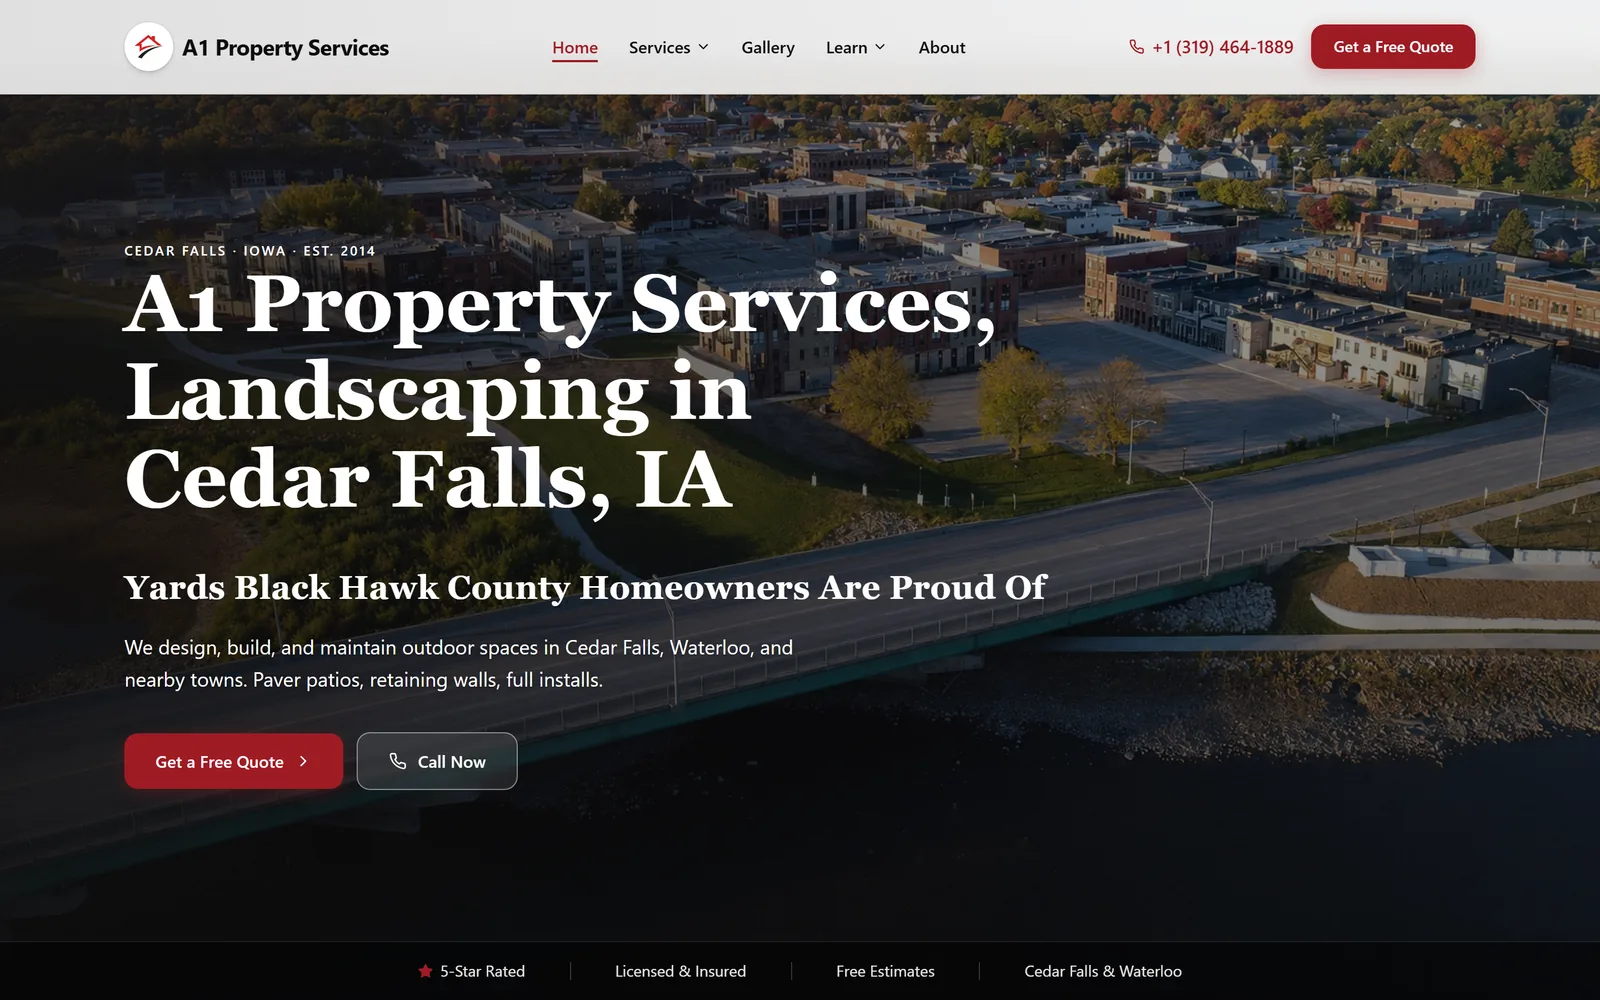
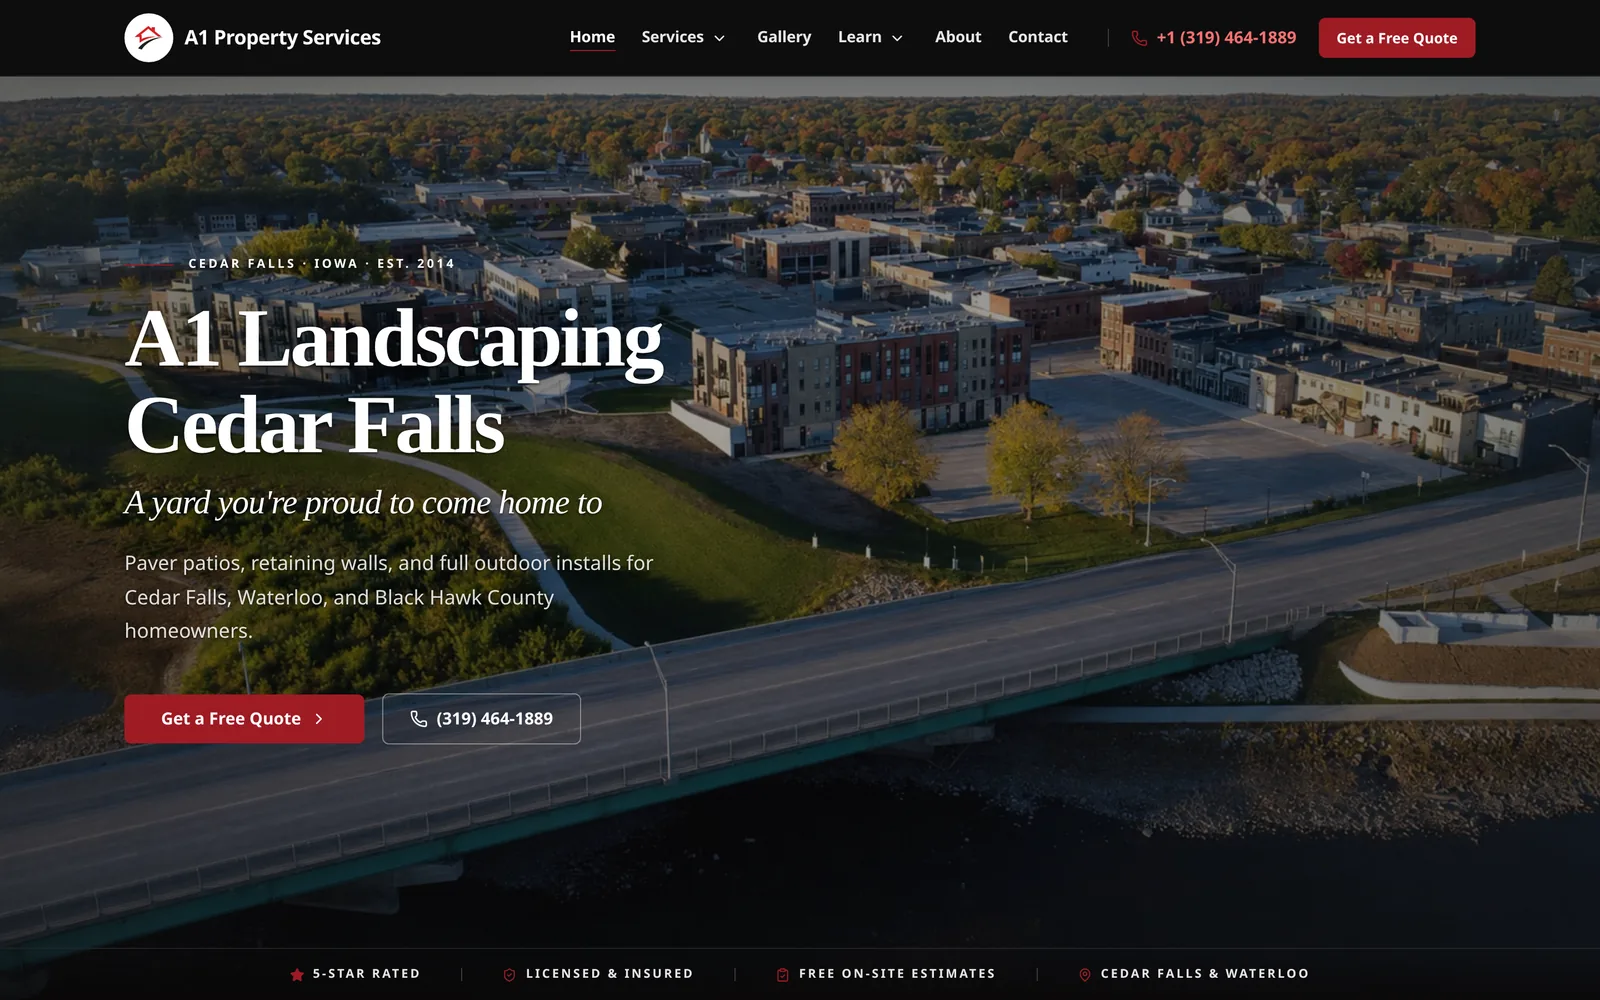
Refresh A1 desktop still so the laptop mockup uses the black nav.
Recapture a1pslandscape.com into a1-desktop.webp (and the matching case-
study stills), bump the LP cache buster, and harden the capture script
against Cloudflare so future refreshes land the live black-nav chrome.

diff --git a/src/content/lp/get-a-website.ts b/src/content/lp/get-a-website.ts
@@ -11,7 +11,7 @@ import { applyLocalePricing, formatEsInteger } from "@/i18n/currency";
 import { isSpanishLocale } from "@/i18n/spanish";
 import { getBusinessWhatsAppHref } from "@/lib/business";
 
-const A1_DESKTOP = "/assets/images/lp/a1-desktop.webp?v=20260916g";
+const A1_DESKTOP = "/assets/images/lp/a1-desktop.webp?v=20260930a";
 const A1_MOBILE = "/assets/images/lp/a1-mobile-3x.webp?v=20260916g";
 const PLUMBING_DESKTOP = "/assets/images/lp/plumbing-desktop-still.webp?v=20260916g";
 

diff --git a/src/content/lp/get-a-website-es.ts b/src/content/lp/get-a-website-es.ts
@@ -5,7 +5,7 @@
 
 import type { LandingPageEntry } from "@/content/registry/landing-pages";
 
-const A1_DESKTOP = "/assets/images/lp/a1-desktop.webp?v=20260916g";
+const A1_DESKTOP = "/assets/images/lp/a1-desktop.webp?v=20260930a";
 const A1_MOBILE = "/assets/images/lp/a1-mobile-3x.webp?v=20260916g";
 const PLUMBING_DESKTOP = "/assets/images/lp/plumbing-desktop-still.webp?v=20260916g";
 
